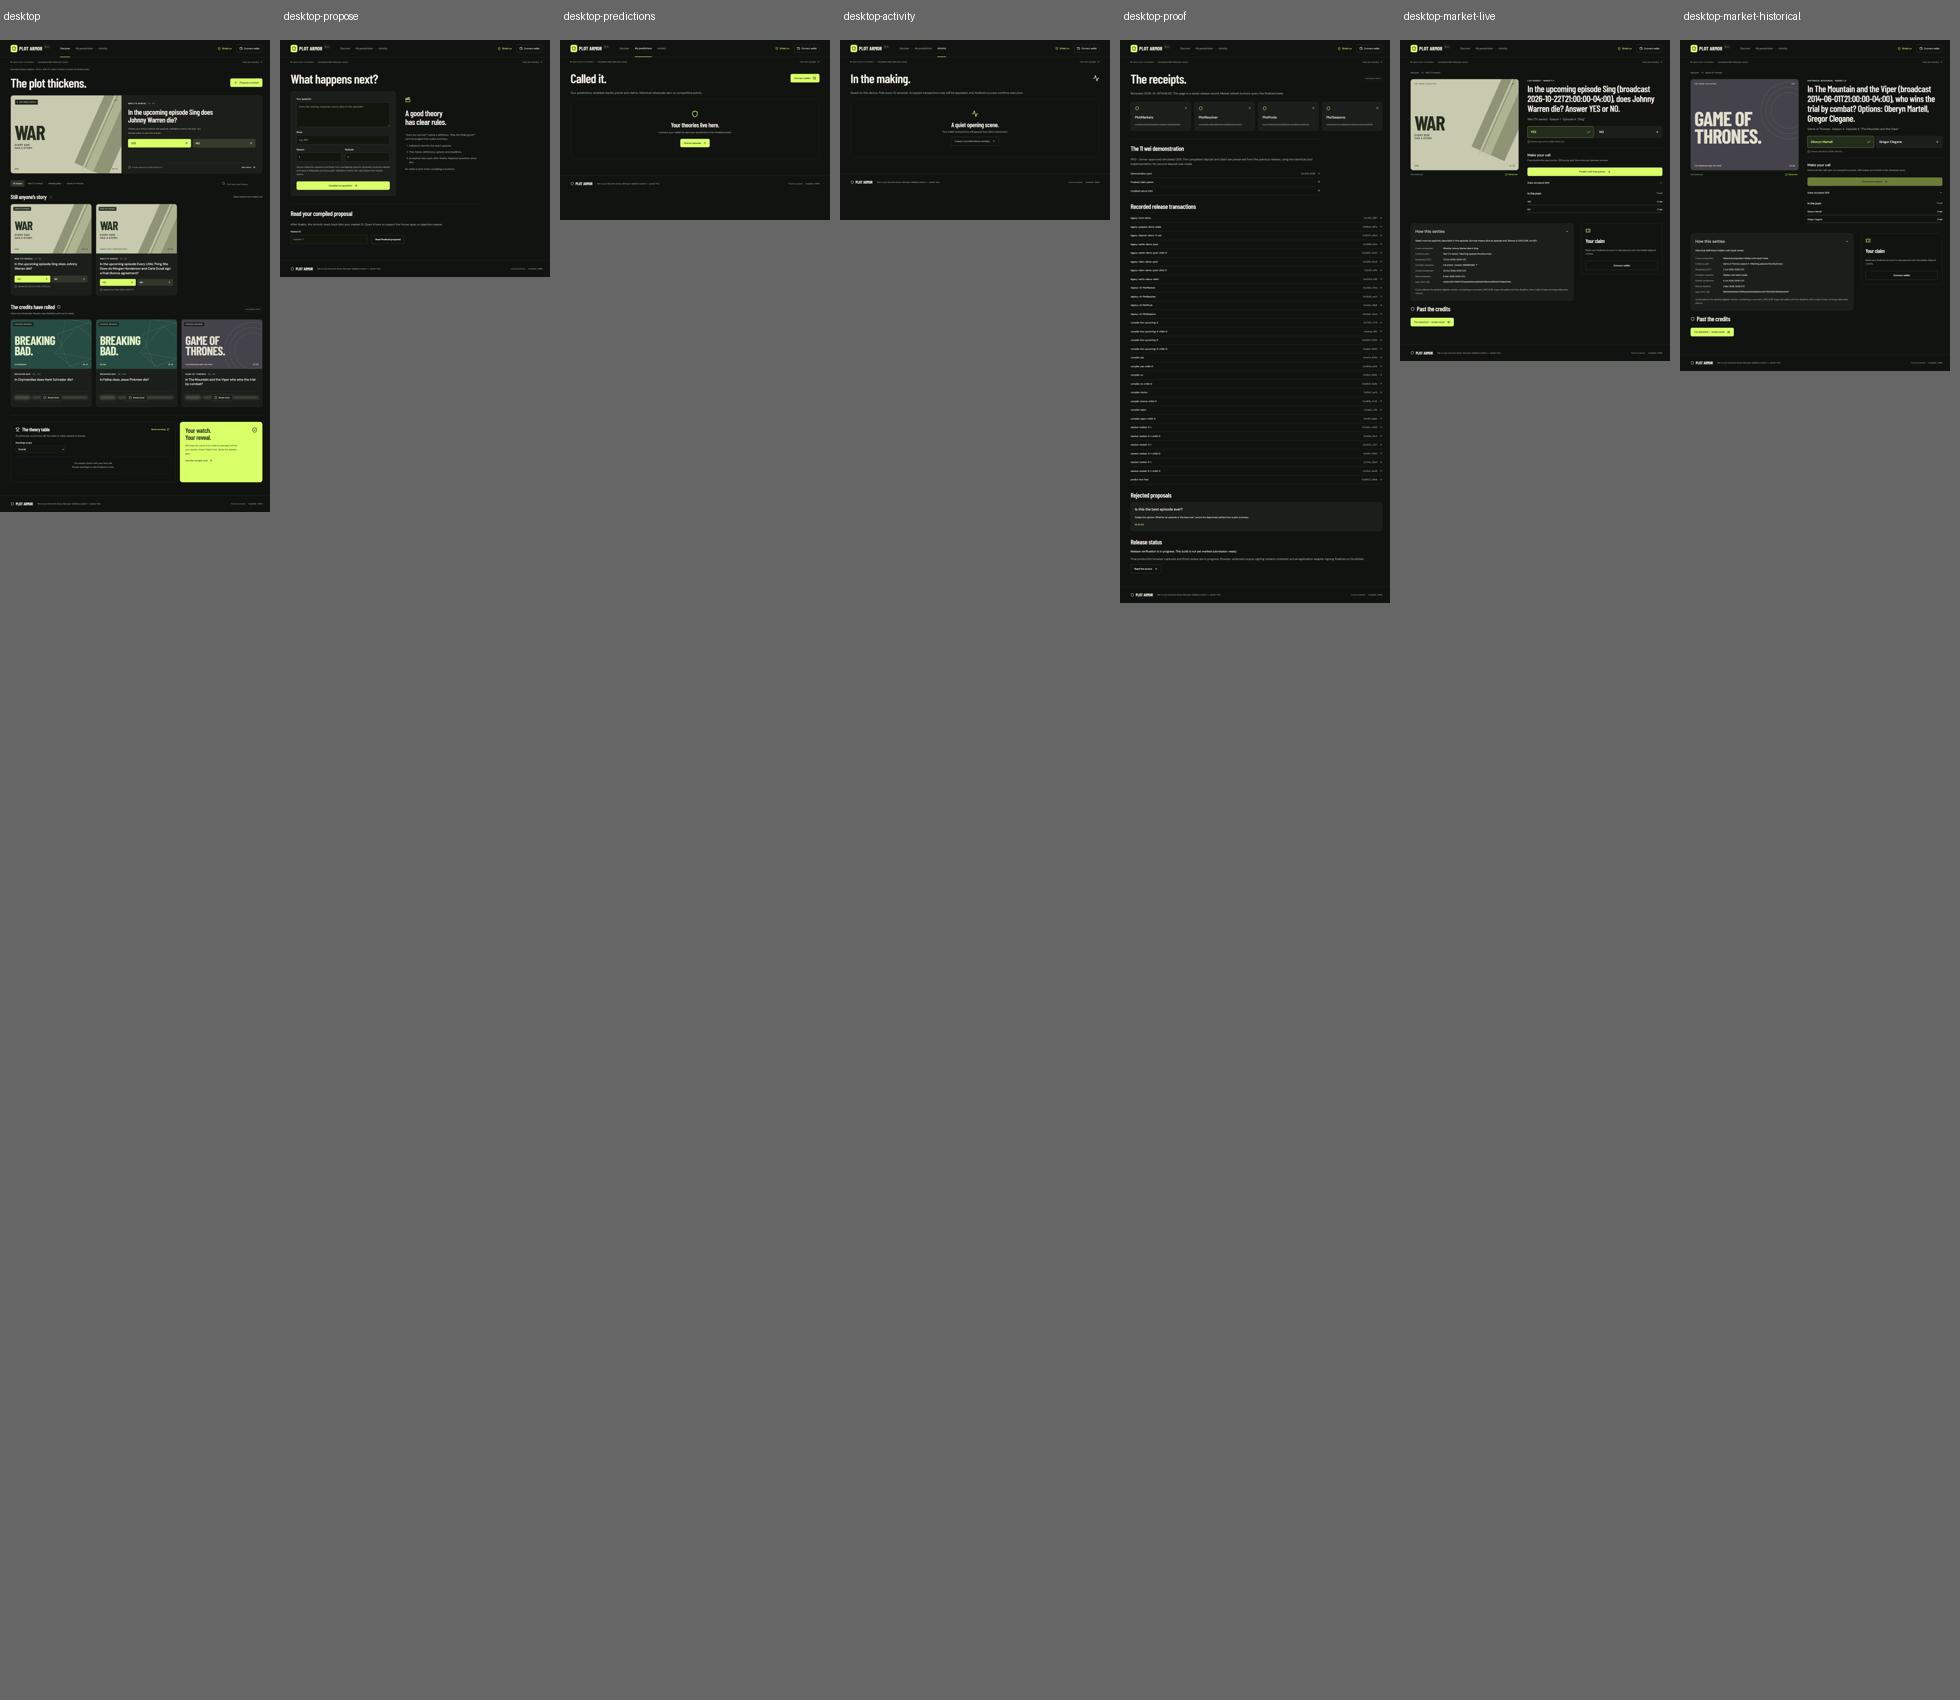
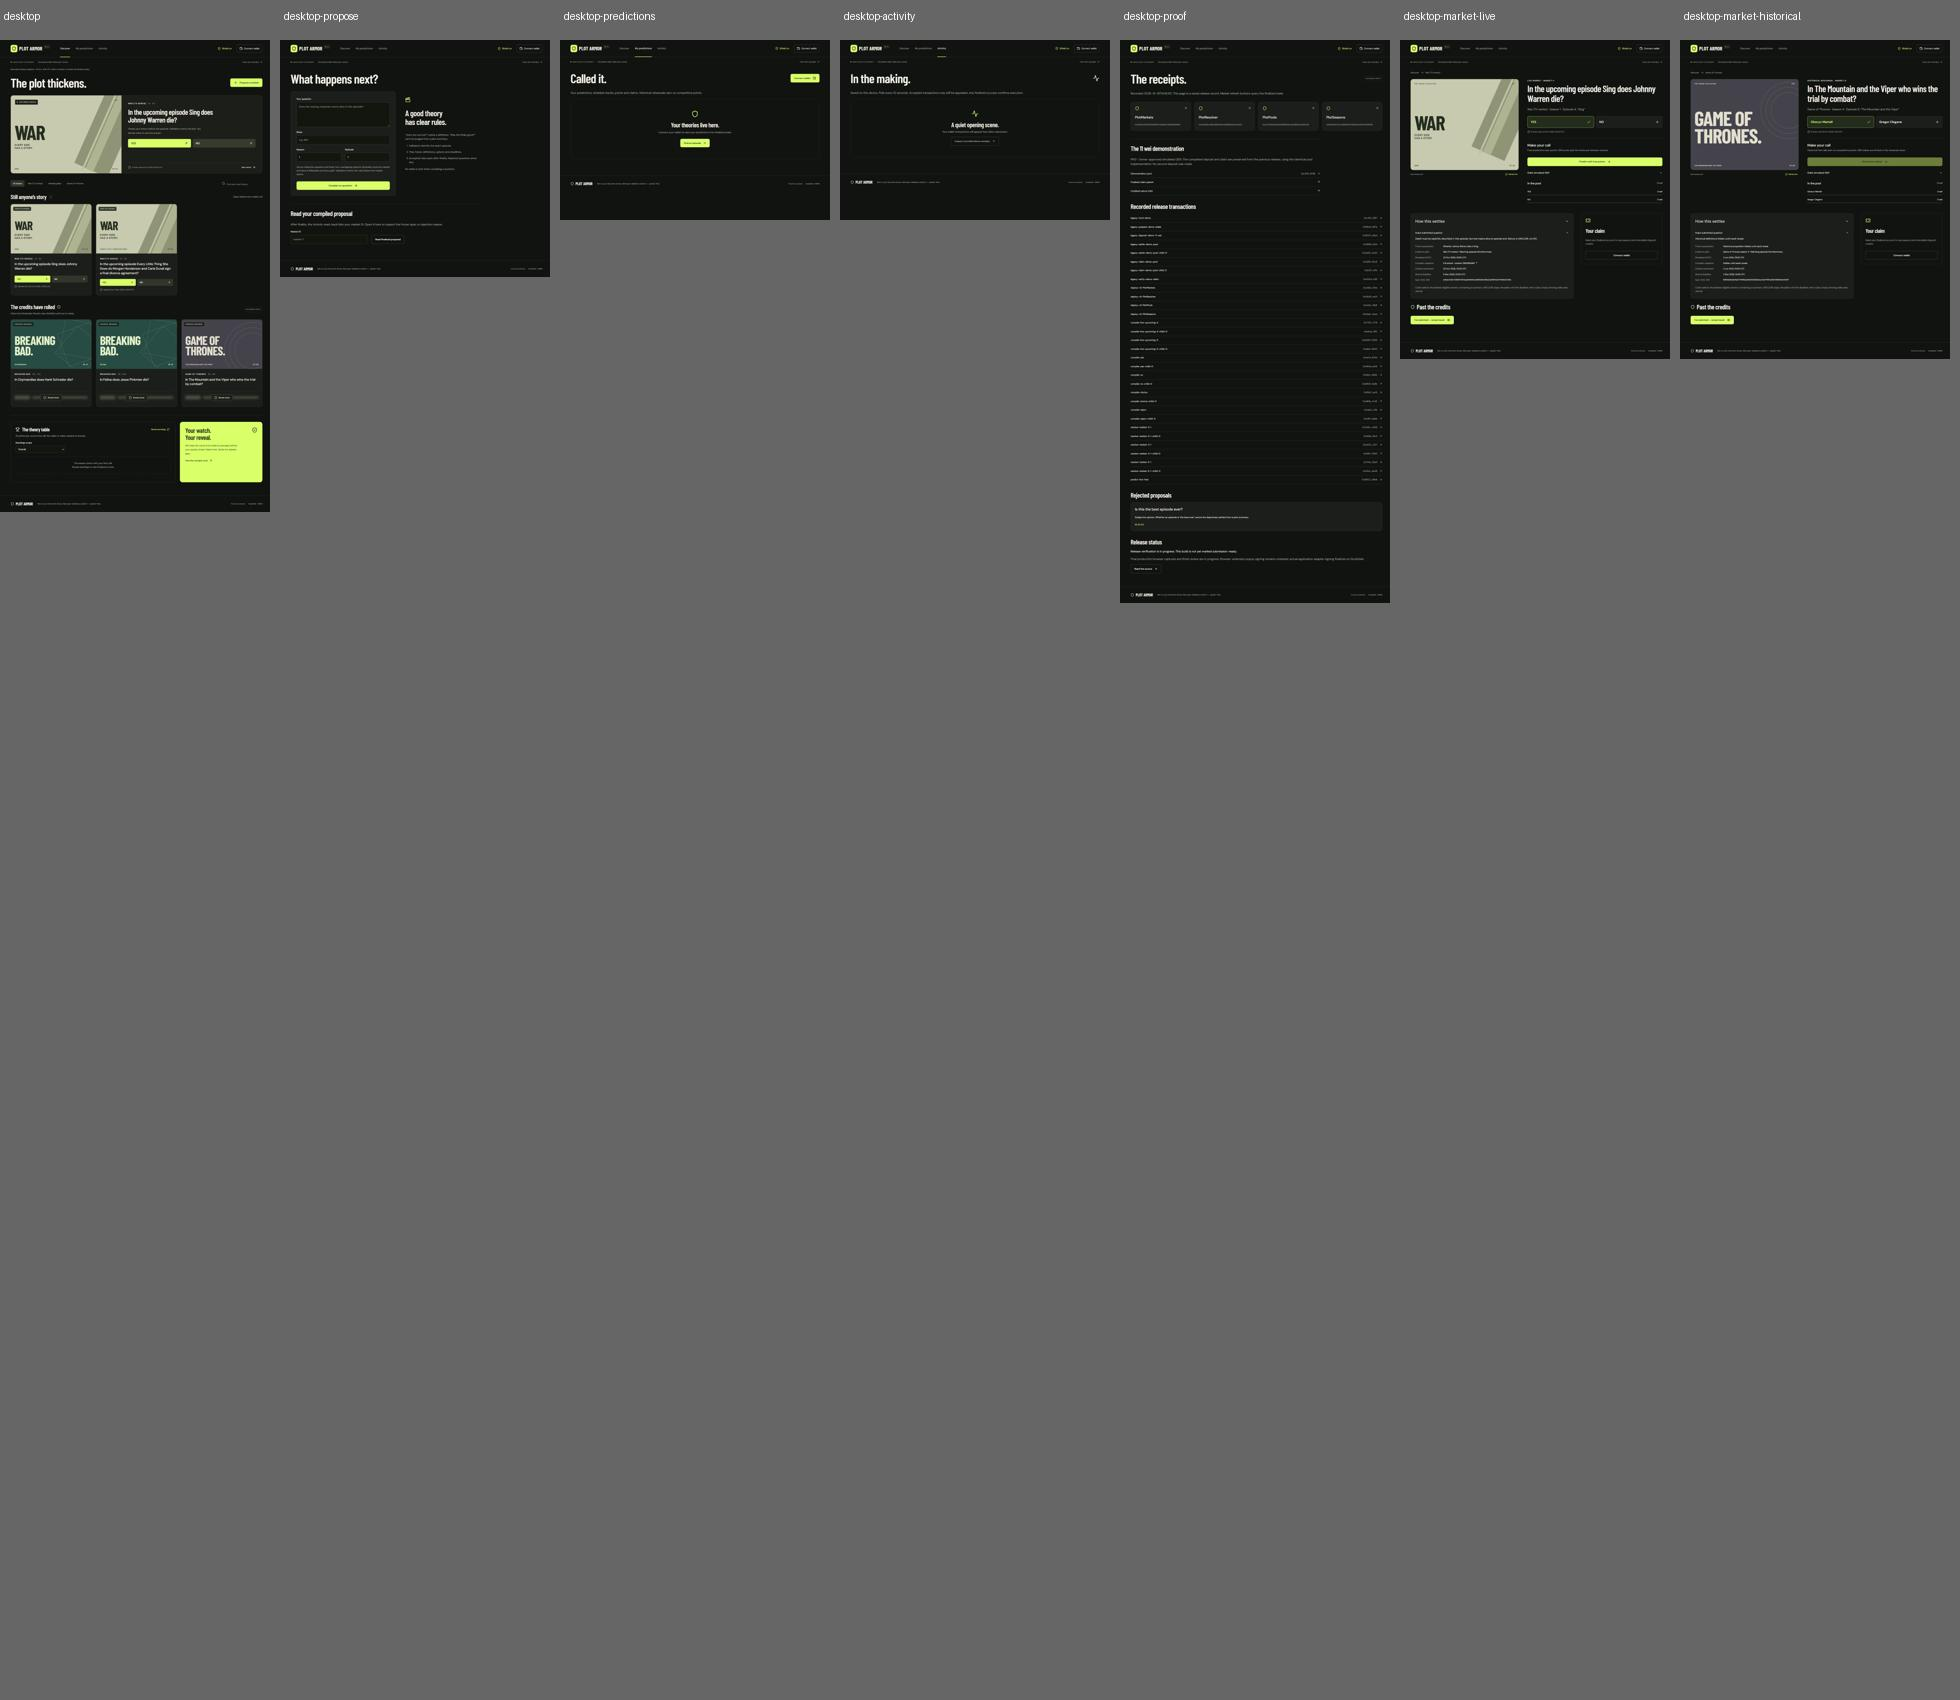
Record final populated phone layout in design documentation

diff --git a/DESIGN.md b/DESIGN.md
@@ -125,7 +125,7 @@ Display is large and compact; body text stays calm. Page titles use the display 
 
 The main container has a maximum width of (1440px), desktop side gutters from `desktop-gutter`, and a three-column shelf using `shelf-gap`. At (1100px) and below gutters switch to `tablet-gutter`; at (740px) and below they use `phone-gutter`, shelves become one column, filters wrap above search, and navigation moves to a second header row. The global shield action remains available on phones as an icon with an accessible name.
 
-Forms use a main form and explanatory aside on desktop, stacking on phones. Detail content uses a poster beside the question and prediction controls, with rules and claim panels below; these stack on phones. Proof contracts use four columns, then two at the intermediate breakpoint, then one on phones. Long hashes wrap.
+Forms use a main form and explanatory aside on desktop, stacking on phones. Detail content uses a poster beside the question and prediction controls, with rules and claim panels below; these stack on phones. Proof contracts use four columns, then two at the intermediate breakpoint, then one on phones. Long hashes wrap. In populated phone prediction cards, the question occupies a full row and actions sit below; desktop rows retain their horizontal layout.
 
 The live first viewport is a compact header followed by an episode-led feature and shelf, without a marketing hero. The current recorded release contains two live War markets and three historical rehearsals. Discover conditionally features the first live market with bold outcome actions, then separates the live and historical shelves. Only when no live market exists does a compact factual no-live notice replace the feature; the live shelf is then omitted. Search and show filters use contextual no-match messages rather than promoting historical records into live forecasts.
 
@@ -150,7 +150,7 @@ Panels use `panel` rounding; buttons, inputs, and badges step down through the c
 - **Notices and empty states:** Phase-appropriate no-live, no-match, no-wallet, no-predictions, and no-activity states describe what is missing and offer a relevant next action. Never promote historical rehearsals into live forecasts to fill a layout.
 - **Receipts:** Contract panels, wrapping hashes, transaction rows, and expandable read-back preserve evidence hierarchy. Read-back explicitly warns that it may contain spoilers. The Proof page visibly distinguishes the archived 11 wei PAID demonstration from current contracts: the completed deposit and claim belong to the previous release with the identical pool implementation, with links to its demonstration pool, claim parent, and credited native child. It does not imply a second deposit or current-pool payout.
 
-Documentation evidence is `components/app.tsx`, `app/globals.css`, `lib/domain.ts`, and all fourteen current JPEG captures under `.impeccable/review/`: `desktop.jpg` / `mobile.jpg` for Discover, plus desktop/mobile pairs for Propose, Predictions, Activity, Proof, live market detail, and historical market detail. `flow-checks.json` records actual (1440 x 960) and (390 x 844) viewports with no horizontal overflow across those routes after the detail minimum-width correction. `final-reviewer.md` reviewed the complete current capture set and requested one detail-heading hierarchy fix; `final-verdict.md` scored that fix resolved and returned **ship at that fix scope only**. The four detail captures were refreshed after the concise-heading correction; older reviewer/verdict files are previous-release evidence. The supplied one-time detector result was `[]`; no second detector ran. This code-led review has no approved image comp or comparative quality-bar image. Wallet signing completion, populated personal pages, browser-submitted transaction reload, backend consensus, and whole-release readiness are outside this visual verdict. Separate browser evidence now records owner-selected MetaMask connection and signing of the zero-value YES prediction for market-2: Activity showed ACCEPTED with an appeal deadline, preserved the hash after reload, then showed FINALIZED SUCCESS. The targeted independent verifier confirmed the correct PlotSeasons contract, zero value, actual personal prediction, and real Explorer API record (transaction 0xcb36e99d7a9c893fa3821b042cf79c009fc7bc83709d03655c5cae1f9072bd4e; `docs/browser-verifier-output.txt`: PASS). A subsequent owner-account reconnect and Refresh my predictions displayed the actual War episode 5 question, “Your call YES,” View market & claims, and Sync finalized score without an error. Personal scores initially remained shielded behind Reveal my scores; the owner then revealed 0 points, current/best streak 0, and a PENDING 0-point row, and Restore spoiler shield hid them again. Activity displayed FINALIZED SUCCESS and a Finalized state read-back disclosure containing market-2, option 0, War season 1, SHIELDED status, and 0 points; the disclosure remained available after reload without a new transaction or signature. This verifies the pending owner-prediction and score reveal/reset flow; terminal winner claims and settled personal outcomes remain untested because the future market is pending. The Activity read-back cancellation correction has its own eleventh application regression test and does not change design geometry. This targeted browser/transaction evidence and application-test results are separate from the fix-only design verdict.
+Documentation evidence is `components/app.tsx`, `app/globals.css`, `lib/domain.ts`, and all fourteen current JPEG captures under `.impeccable/review/`: `desktop.jpg` / `mobile.jpg` for Discover, plus desktop/mobile pairs for Propose, Predictions, Activity, Proof, live market detail, and historical market detail. `flow-checks.json` records actual (1440 x 960) and (390 x 844) viewports with no horizontal overflow across those routes after the detail minimum-width correction. `final-reviewer.md` reviewed the complete current capture set and requested one detail-heading hierarchy fix; `final-verdict.md` scored that fix resolved and returned **ship at that fix scope only**. The four detail captures were refreshed after the concise-heading correction; older reviewer/verdict files are previous-release evidence. The supplied one-time detector result was `[]`; no second detector ran. This code-led review has no approved image comp or comparative quality-bar image. Wallet signing completion, populated personal pages, browser-submitted transaction reload, backend consensus, and whole-release readiness are outside this visual verdict. Separate browser evidence now records owner-selected MetaMask connection and signing of the zero-value YES prediction for market-2: Activity showed ACCEPTED with an appeal deadline, preserved the hash after reload, then showed FINALIZED SUCCESS. The targeted independent verifier confirmed the correct PlotSeasons contract, zero value, actual personal prediction, and real Explorer API record (transaction 0xcb36e99d7a9c893fa3821b042cf79c009fc7bc83709d03655c5cae1f9072bd4e; `docs/browser-verifier-output.txt`: PASS). A subsequent owner-account reconnect and Refresh my predictions displayed the actual War episode 5 question, “Your call YES,” View market & claims, and Sync finalized score without an error. Personal scores initially remained shielded behind Reveal my scores; the owner then revealed 0 points, current/best streak 0, and a PENDING 0-point row, and Restore spoiler shield hid them again. Activity displayed FINALIZED SUCCESS and a Finalized state read-back disclosure containing market-2, option 0, War season 1, SHIELDED status, and 0 points; the disclosure remained available after reload without a new transaction or signature. This verifies the pending owner-prediction and score reveal/reset flow; terminal winner claims and settled personal outcomes remain untested because the future market is pending. The Activity read-back cancellation correction has its own eleventh application regression test. Separate populated Activity/Predictions checks at (1440 x 960) and (390 x 844) report no overflow in `.impeccable/review/wallet-flow-checks.json`; the viewed `artifacts/mobile-wallet-predictions.jpg` confirms the phone prediction question uses a full (308px) row with actions below. These four populated-state checks do not expand the original fix-only visual review. This targeted browser/transaction evidence and application-test results are separate from the fix-only design verdict.
 
 ## Do's and Don'ts
 
